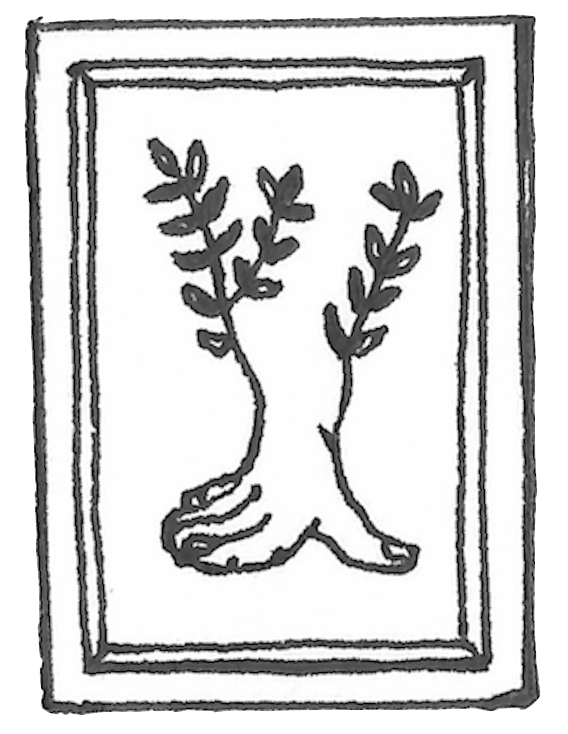
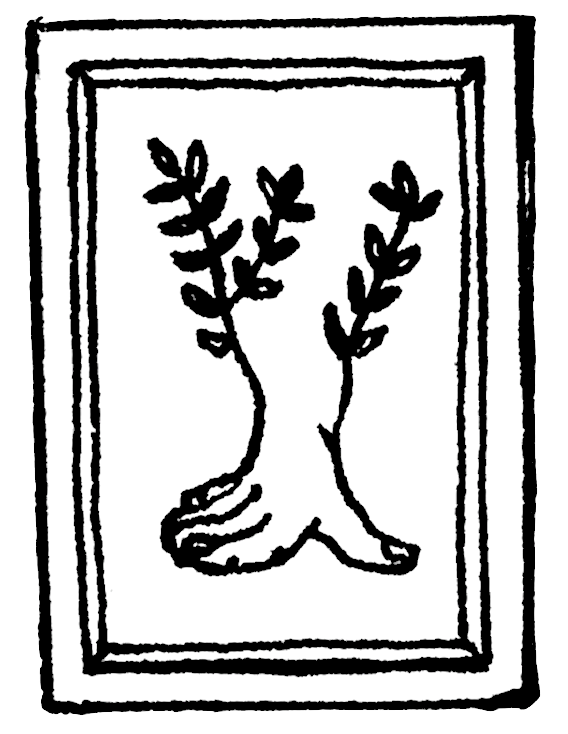
increase contrast on images and animate on hover

diff --git a/src/components/Home.js b/src/components/Home.js
@@ -28,6 +28,29 @@ const ObjectWrapper = styled.div`
   width: 200px;
 `;
 
+const SelectableObjectWrapper = styled(ObjectWrapper)`
+  @keyframes wiggle {
+    0% { transform: rotate(2deg); }
+    10% { transform: rotate(-2deg); }
+    20% { transform: rotate(2deg); }
+    30% { transform: rotate(-2deg); }
+    40% { transform: rotate(2deg); }
+    50% { transform: rotate(-2deg); }
+    60% { transform: rotate(2deg); }
+    70% { transform: rotate(-2deg); }
+    80% { transform: rotate(2deg); }
+    90% { transform: rotate(-2deg); }
+    100% { transform: rotate(2deg); }
+  }
+  :hover {
+    cursor: not-allowed;
+    animation-duration: 450ms;
+    animation-timing-function: linear;
+    animation-iteration-count: 1;
+    animation-name: wiggle;
+  }
+`;
+
 const Image = styled.img`
   width: 100%;
 `;
@@ -40,18 +63,18 @@ const WallObjectsWrapper = styled.div`
 `;
 
 const BotanicalPosterWrapper = styled(ObjectWrapper)`
-  left: 15%;
+  left: 17%;
   top: 27%;
   width: 320px;
 `;
 
-const PosterWrapper = styled(ObjectWrapper)`
-  left: 42%;
+const PosterWrapper = styled(SelectableObjectWrapper)`
+  left: 40%;
   top: 25%;
   width: 180px;
 `;
 
-const PolaroidWrapper = styled(ObjectWrapper)`
+const PolaroidWrapper = styled(SelectableObjectWrapper)`
   left: 52%;
   top: 117%;
   width: 60px;
@@ -90,28 +113,16 @@ const BookendsWrapper = styled(ObjectWrapper)`
   width: 175px;
 `;
 
-const Plant2PlantWrapper = styled(ObjectWrapper)`
-  left: 15%;
-  top: 3%;
-  width: 173px;
-`;
-
-const LaptopWrapper = styled(ObjectWrapper)`
+const LaptopWrapper = styled(SelectableObjectWrapper)`
   left: 40%;
   top: 15%;
   width: 240px;
 `;
 
-const EnvelopeWrapper = styled(ObjectWrapper)`
+const EnvelopeWrapper = styled(SelectableObjectWrapper)`
   left: 60%;
   width: 95px;
   bottom: 50px;
-`;
-
-const RadioWrapper = styled(ObjectWrapper)`
-  left: 60%;
-  width: 120px;
-  bottom: 150px;
 `;
 
 const PlantWrapper = styled(ObjectWrapper)`
@@ -120,6 +131,17 @@ const PlantWrapper = styled(ObjectWrapper)`
   width: 230px;
 `;
 
+const Plant2PlantWrapper = styled(ObjectWrapper)`
+  left: 19%;
+  top: 3%;
+  width: 173px;
+`;
+
+const RadioWrapper = styled(SelectableObjectWrapper)`
+  left: 60%;
+  width: 120px;
+  bottom: 150px;
+`;
 
 class Home extends Component {
   render() {
@@ -148,12 +170,12 @@ class Home extends Component {
         </WallObjectsWrapper>
         <DeskObjectsWrapper>
           <Desk />
-          <Plant2PlantWrapper>
-            <Image src={Plant2} />
-          </Plant2PlantWrapper>
           <BookendsWrapper>
             <Image src={Bookends} />
           </BookendsWrapper>
+          <Plant2PlantWrapper>
+            <Image src={Plant2} />
+          </Plant2PlantWrapper>
           <EnvelopeWrapper>
             <Link to="/contact">
               <Image src={Envelope} />
